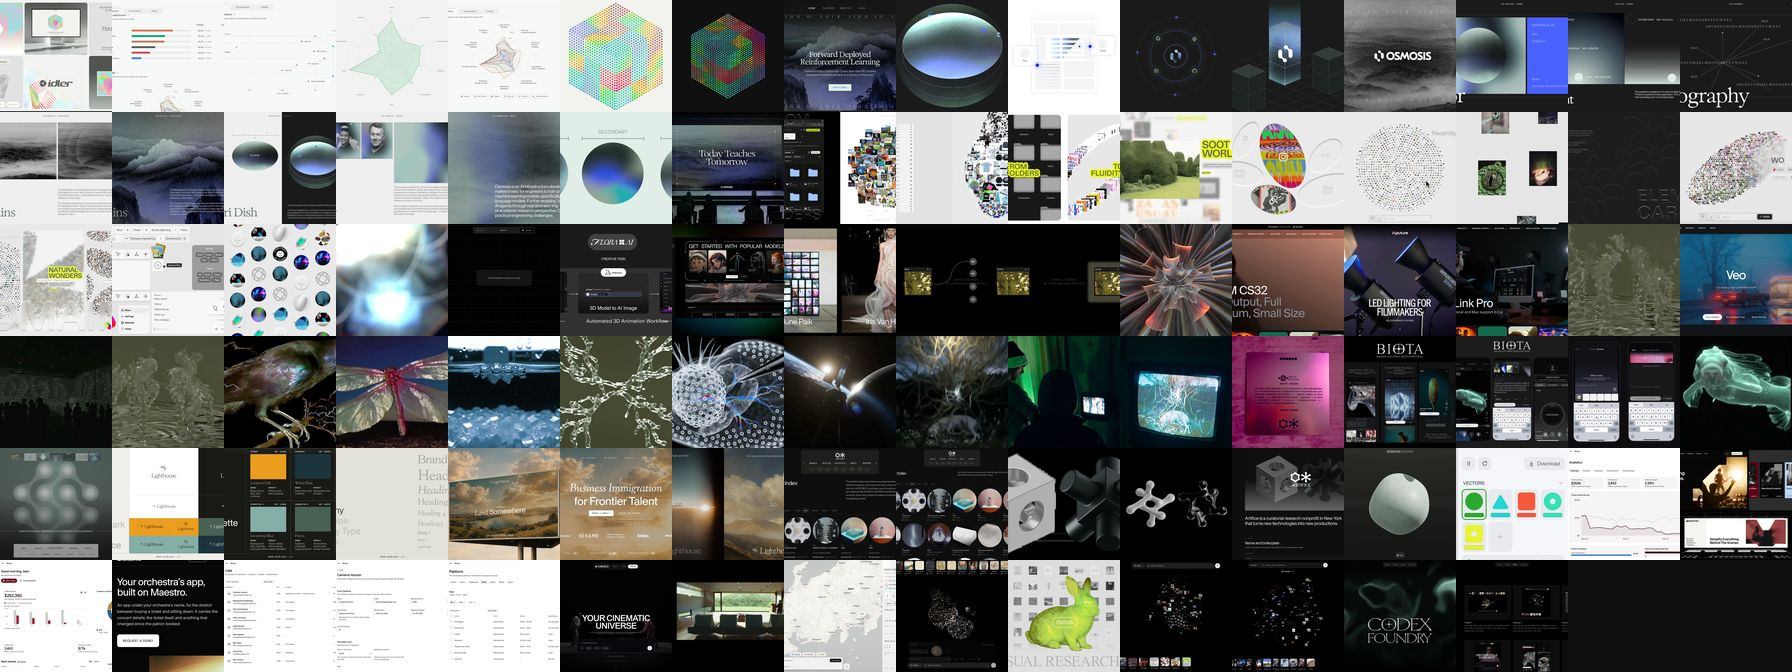
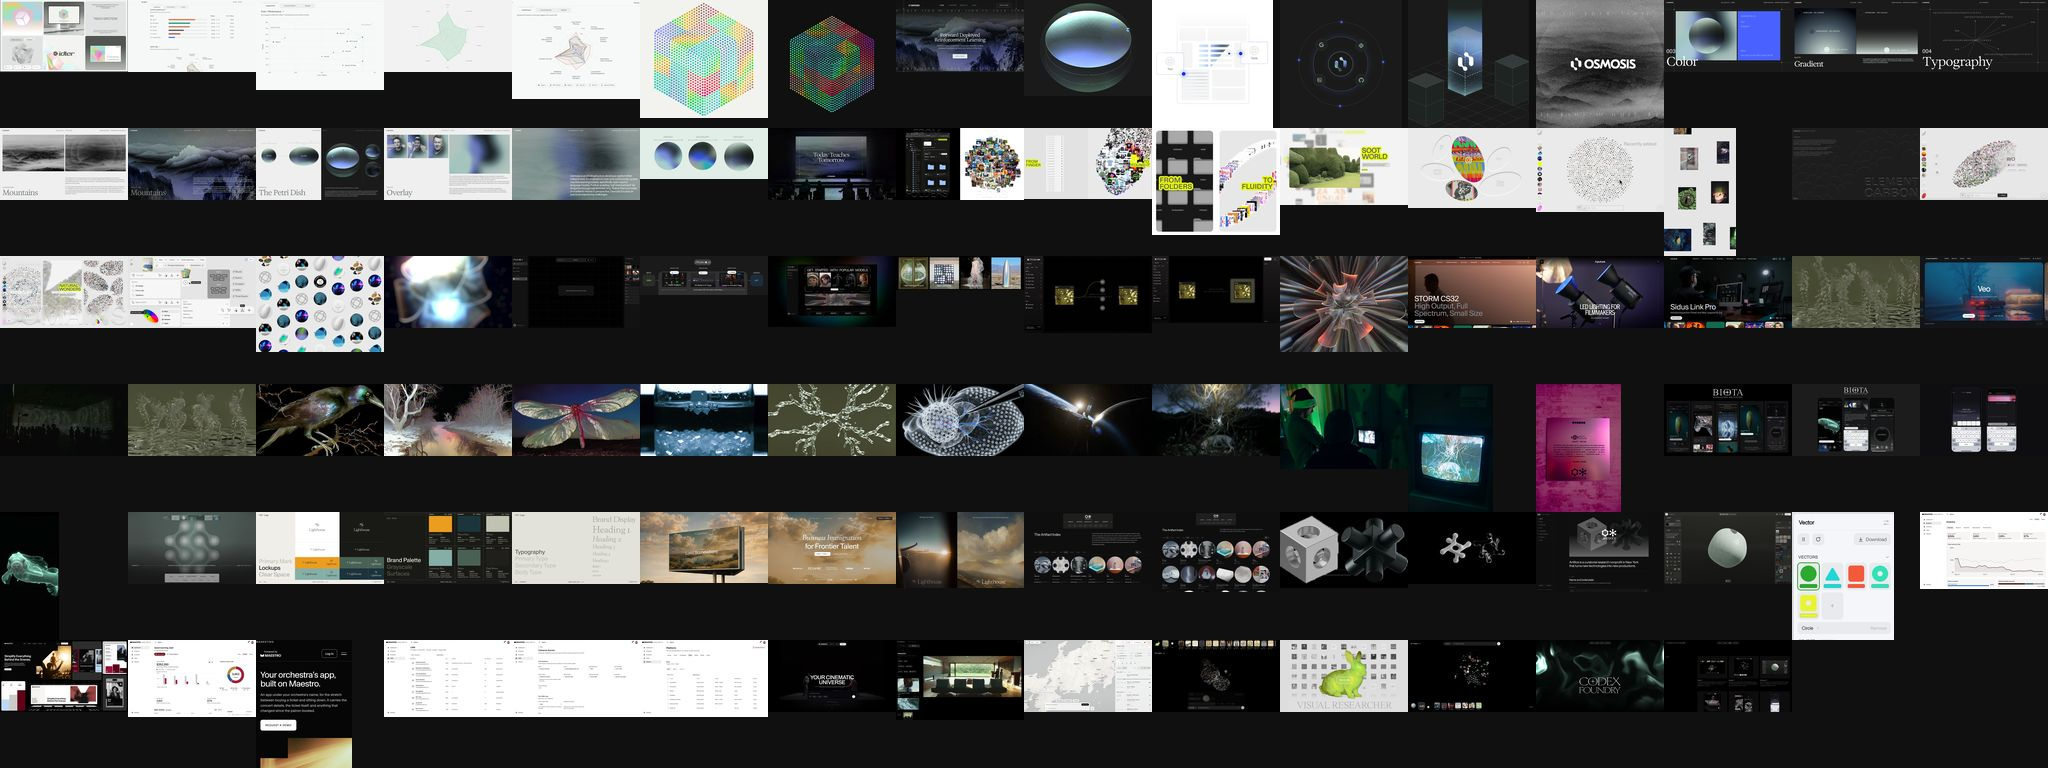
Globe: each image at its own proportions, uncropped
The atlas fits every image inside its cell instead of cutting it square, records
each one's rect, and the globe draws and hit-tests every tile at that shape.

diff --git a/index.html b/index.html
@@ -2472,8 +2472,8 @@ document.documentElement.className+=' js';
   var names={};
   document.querySelectorAll('#work a.proj').forEach(function(a){
     var b=a.querySelector('.c0 b'); names[a.getAttribute('data-slug')]=b?b.textContent.trim():a.getAttribute('data-slug'); });
-  fetch('/stage/globe/atlas.json?v=2').then(function(r){ return r.json(); }).then(function(A){
-    var img=new Image(); img.onload=function(){ start(A,img); }; img.src='/stage/globe/atlas.jpg?v=2';
+  fetch('/stage/globe/atlas.json?v=3').then(function(r){ return r.json(); }).then(function(A){
+    var img=new Image(); img.onload=function(){ start(A,img); }; img.src='/stage/globe/atlas.jpg?v=3';
   }).catch(function(){});
 
   function start(A,img){
@@ -2495,7 +2495,7 @@ document.documentElement.className+=' js';
       // Tiles sized to the spacing between points, so the sphere reads full without repeats,
       // and the radius leaves room for the outermost tile: the globe always fits whole.
       var M=Math.min(W,H)/2, gap=Math.sqrt(4*Math.PI/N);
-      R=M/(1+gap*.16)-4; S=R*gap*1.45;
+      R=M/(1+gap*.2)-4; S=R*gap*1.7;
     }
     function frame(){
       raf=0; if(!W) size();
@@ -2514,8 +2514,10 @@ document.documentElement.className+=' js';
       ctx.setTransform(dpr,0,0,dpr,0,0); ctx.clearRect(0,0,W,H);
       for(var q=0;q<ord.length;q++){ var p2=ord[q], s2=p2.s, a=p2.d<0?.18+.5*(1+p2.d):1;
         ctx.globalAlpha=Math.max(.12,Math.min(1,a));
-        ctx.drawImage(img,(p2.t%C)*T,Math.floor(p2.t/C)*T,T,T,p2.sx-s2/2,p2.sy-s2/2,s2,s2);
-        if(pts.indexOf(p2)===hover){ ctx.globalAlpha=1; ctx.strokeStyle='rgba(255,255,255,.85)'; ctx.lineWidth=1; ctx.strokeRect(p2.sx-s2/2-.5,p2.sy-s2/2-.5,s2+1,s2+1); } }
+        // Each image at its own proportions: the longer side is the tile size.
+        var rc=A.rects[p2.t], w2=s2*rc[2]/T, h2=s2*rc[3]/T;
+        ctx.drawImage(img,rc[0],rc[1],rc[2],rc[3],p2.sx-w2/2,p2.sy-h2/2,w2,h2);
+        if(pts.indexOf(p2)===hover){ ctx.globalAlpha=1; ctx.strokeStyle='rgba(255,255,255,.85)'; ctx.lineWidth=1; ctx.strokeRect(p2.sx-w2/2-.5,p2.sy-h2/2-.5,w2+1,h2+1); } }
       ctx.globalAlpha=1;
       if(seen && !document.hidden && (spin||drag)) raf=requestAnimationFrame(frame);
     }
@@ -2526,8 +2528,9 @@ document.documentElement.className+=' js';
       var b=cv.getBoundingClientRect(), mx=e.clientX-b.left, my=e.clientY-b.top, best=-1, bd=1e9,
           reach=e.pointerType==='touch'?22:0;
       for(var i=0;i<N;i++){ var p=pts[i]; if(p.d<0) continue;
-        var dx=mx-p.sx, dy=my-p.sy, d=dx*dx+dy*dy, lim=Math.max(p.s/2,reach);
-        if(Math.abs(dx)<=lim && Math.abs(dy)<=lim && d-p.d*40<bd){ bd=d-p.d*40; best=i; } }
+        var rc=A.rects[p.t], dx=mx-p.sx, dy=my-p.sy, d=dx*dx+dy*dy,
+            lx=Math.max(p.s*rc[2]/T/2,reach), ly=Math.max(p.s*rc[3]/T/2,reach);
+        if(Math.abs(dx)<=lx && Math.abs(dy)<=ly && d-p.d*40<bd){ bd=d-p.d*40; best=i; } }
       return best;
     }
     function setHover(i){

diff --git a/stage/globe/build-atlas.py b/stage/globe/build-atlas.py
@@ -5,7 +5,7 @@ one JPEG, with a JSON map of tile -> project slug."""
 import json, os, re, subprocess, tempfile, hashlib
 from PIL import Image
 R = os.path.expanduser('~/SEANCE/r2.github.io')
-TILE, PER, COLS = 112, 16, 16
+TILE, PER, COLS = 128, 16, 16
 html = open(f'{R}/index.html').read()
 cards = re.findall(r'<a class="proj" data-slug="([^"]+)"', html)
 stage_dir = {s: s for s in cards}
@@ -38,8 +38,9 @@ for slug in cards:
                 im = Image.open(out)
             else:
                 im = Image.open(p)
-            im = im.convert('RGB'); w, h = im.size; s = min(w, h)
-            im = im.crop(((w - s) // 2, (h - s) // 2, (w - s) // 2 + s, (h - s) // 2 + s)).resize((TILE, TILE), Image.LANCZOS)
+            # Keep the image's own proportions (2026-11-19): fit inside the TILE cell, uncropped.
+            im = im.convert('RGB'); w, h = im.size; k = TILE / max(w, h)
+            im = im.resize((max(1, round(w * k)), max(1, round(h * k))), Image.LANCZOS)
             # near-empty frames (flat ground) say nothing; skip them
             if max(im.convert('L').getextrema()) - min(im.convert('L').getextrema()) < 24: continue
             # no repeats: drop anything visually near an image already kept (difference hash)
@@ -55,12 +56,14 @@ for slug in cards:
             print('skip', p, e)
 rows = (len(tiles) + COLS - 1) // COLS
 atlas = Image.new('RGB', (COLS * TILE, rows * TILE), (16, 16, 16))
+rects = []
 for i, (slug, im) in enumerate(tiles):
-    atlas.paste(im, ((i % COLS) * TILE, (i // COLS) * TILE))
+    x, y = (i % COLS) * TILE, (i // COLS) * TILE
+    atlas.paste(im, (x, y)); rects.append([x, y, im.size[0], im.size[1]])
 os.makedirs(f'{R}/stage/globe', exist_ok=True)
 atlas.save(f'{R}/stage/globe/atlas.jpg', quality=80, optimize=True, progressive=True)
 names = dict(re.findall(r'<a class="proj" data-slug="([^"]+)".*?<b>([^<]+)</b>', html, re.S))
-json.dump({'tile': TILE, 'cols': COLS, 'slugs': [s for s, _ in tiles]}, open(f'{R}/stage/globe/atlas.json', 'w'))
+json.dump({'tile': TILE, 'cols': COLS, 'slugs': [s for s, _ in tiles], 'rects': rects}, open(f'{R}/stage/globe/atlas.json', 'w'))
 from collections import Counter
 print(len(tiles), 'tiles', atlas.size, os.path.getsize(f'{R}/stage/globe/atlas.jpg') // 1024, 'KB')
 print(Counter(s for s, _ in tiles))
